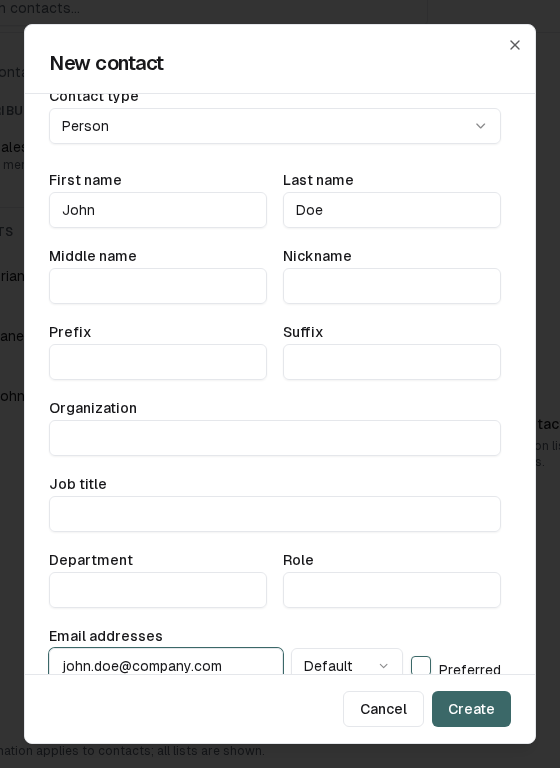
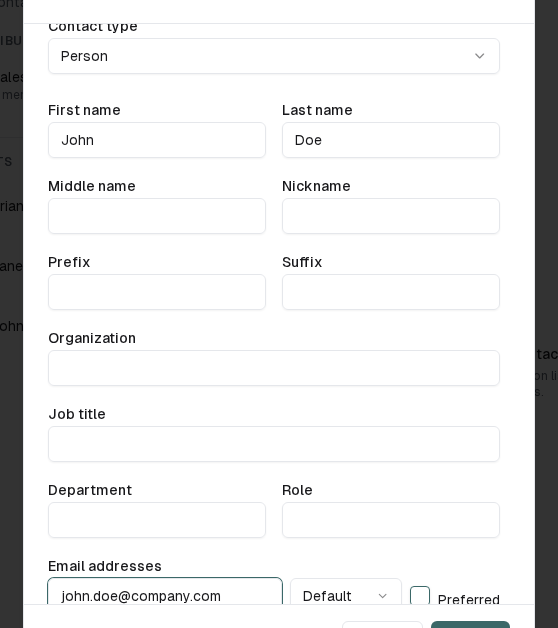
feat(capture): scope every shot to its instructional scene — 18/18, gate clean
Each capture now frames its subject instead of the full app viewport:
- mail-compose: floating compose panel; mail-read: reading pane
- mail-folder-management: folder list nav; global-search: search bar ∪
  filter popover
- settings pages scoped to their forms (vacation, signatures, filters,
  preferences, password)
- contacts-add/edit-delete: identity / phone sections
- calendar-edit-delete: event popover; recurring: recurrence controls
  with the frequency options open
- capture() accepts a list of locators, unions their bounding boxes

phash gate: 0 near-duplicate pairs (scoped dialogs were clashing at
dist=8; tight scenes are distinct — 40/18/25KB vs uniform 60-160KB
full-viewport shots)

diff --git a/capture/run_screenshot_captures.py b/capture/run_screenshot_captures.py
@@ -339,16 +339,25 @@ class ScreenshotRecorder:
                       locale: str = "en") -> Path | None:
         """Screenshot at the result moment, annotated with the given label.
 
-        With ``scope`` (a Locator), captures that widget (dialog, panel) with
-        a margin instead of the full viewport — the gist fills the frame.
+        With ``scope`` (a Locator, or a list of Locators whose bounding
+        boxes are unioned), captures that widget (dialog, panel, section)
+        with a margin instead of the full viewport — the gist fills the
+        frame.
         """
         raw_path = self.screenshot_dir / f"{self.name}_raw.png"
         annotated_path = self.screenshot_dir / f"{self.name}.png"
         try:
+            box = None
             if scope is not None:
-                box = await scope.bounding_box()
-            else:
-                box = None
+                scopes = scope if isinstance(scope, list) else [scope]
+                boxes = [b for b in await asyncio.gather(*(s.bounding_box() for s in scopes)) if b]
+                if boxes:
+                    box = {
+                        "x": min(b["x"] for b in boxes),
+                        "y": min(b["y"] for b in boxes),
+                        "width": max(b["x"] + b["width"] for b in boxes) - min(b["x"] for b in boxes),
+                        "height": max(b["y"] + b["height"] for b in boxes) - min(b["y"] for b in boxes),
+                    }
             if box:
                 vp = page.viewport_size or {"width": 1280, "height": 800}
                 x = max(0, box["x"] - margin)
@@ -476,11 +485,17 @@ async def record_calendar_recurring(context: BrowserContext) -> Path | None:
     freq = dlg.locator("[role='combobox']:has-text('Week')").first
     await require(freq, "recurrence frequency selector")
     await freq.click()
+    options = page.locator("[role='listbox']").first
+    await require(options, "recurrence frequency options listbox")
     await page.locator("[role='option']").first.wait_for(state="visible", timeout=8000)
     await page.wait_for_timeout(400)
 
+    # Scene = the recurrence controls with the frequency options open — a
+    # plain dialog shot phash-clashes with calendar-create-event (dist=8).
+    repeat_section = switch.locator("xpath=ancestor::div[2]")
     shot = await rec.capture(
-        page, "Configuring a weekly recurring event", scope=dlg
+        page, "Configuring a weekly recurring event: frequency options",
+        scope=[repeat_section, freq, options],
     )
 
     await page.locator("[role='option']", has_text="Week(s)").first.click()
@@ -520,7 +535,10 @@ async def record_mail_compose(context: BrowserContext) -> Path | None:
     await page.wait_for_timeout(500)
 
     # Filled compose panel IS the instructional gist — actual sending not needed.
-    return await rec.capture(page, "Compose panel: To, Subject, and body filled")
+    # Scene = the floating compose panel (3rd div ancestor of Send:
+    # button-group -> footer bar -> panel; probe 2026-09-14).
+    panel = page.get_by_role("button", name="Send").locator("xpath=ancestor::div[3]")
+    return await rec.capture(page, "Compose panel: To, Subject, and body filled", scope=panel)
 
 
 async def record_contacts_add(context: BrowserContext) -> Path | None:
@@ -542,8 +560,11 @@ async def record_contacts_add(context: BrowserContext) -> Path | None:
     await em.fill("john.doe@company.com")
     await page.wait_for_timeout(500)
 
+    # Scene = the identity section (name + email rows) — a full dialog shot
+    # phash-clashes with the calendar event dialogs (dist=8).
+    identity = page.locator('input[name="firstName"]').locator("xpath=ancestor::div[3]")
     return await rec.capture(
-        page, "New contact dialog with First Name, Last Name, Email filled", scope=dlg
+        page, "New contact: First Name, Last Name, Email filled", scope=identity
     )
 
 
@@ -559,7 +580,7 @@ async def record_vacation(context: BrowserContext) -> Path | None:
     await require(section, "Vacation settings section")
     await page.wait_for_timeout(400)
 
-    return await rec.capture(page, "Vacation auto-reply settings page")
+    return await rec.capture(page, "Vacation auto-reply settings", scope=section)
 
 
 async def record_mail_signatures(context: BrowserContext) -> Path | None:
@@ -570,9 +591,13 @@ async def record_mail_signatures(context: BrowserContext) -> Path | None:
     await navigate_to_settings(page, "Email")
 
     await require(page.get_by_text("Signature"), "Signature settings section")
+    sig_section = page.locator("form, section").filter(has_text="Signature").first
+    await require(sig_section, "Signature settings form")
     await page.wait_for_timeout(400)
 
-    return await rec.capture(page, "Email settings page showing the Signature configuration section")
+    return await rec.capture(
+        page, "Email settings: Signature configuration", scope=sig_section
+    )
 
 
 async def record_mail_filters(context: BrowserContext) -> Path | None:
@@ -585,7 +610,9 @@ async def record_mail_filters(context: BrowserContext) -> Path | None:
     await wait_outcome(page, "Add filter", "Filters list with 'Add filter' button")
     await page.wait_for_timeout(400)
 
-    return await rec.capture(page, "Mail Filters settings page")
+    filters_form = page.locator("form").filter(has_text="Add filter").first
+    await require(filters_form, "Filters form")
+    return await rec.capture(page, "Mail Filters settings", scope=filters_form)
 
 
 async def record_calendar_subscribe(context: BrowserContext) -> Path | None:
@@ -681,9 +708,11 @@ async def record_preferences(context: BrowserContext) -> Path | None:
     await navigate_to_settings(page, "General")
 
     await require(page.get_by_text("Timezone"), "Timezone setting")
+    gen_form = page.locator("form").filter(has_text="Timezone").first
+    await require(gen_form, "General settings form")
     await page.wait_for_timeout(400)
 
-    return await rec.capture(page, "General Preferences settings page")
+    return await rec.capture(page, "General Preferences settings", scope=gen_form)
 
 
 async def record_calendar_views(context: BrowserContext) -> Path | None:
@@ -737,10 +766,13 @@ async def record_contacts_edit_delete(context: BrowserContext) -> Path | None:
     await phone_in.fill("+1 555-1234")
     await page.wait_for_timeout(400)
 
-    # Full page, not scope=dlg: a scoped contact dialog is visually near-
-    # identical to the calendar event dialogs (phash dist=8 → duplicate gate
-    # flags it). Full page keeps the address-book context and stays distinct.
-    return await rec.capture(page, "Contact dialog: editing phone number in new contact")
+    # Scene = the phone section of the contact dialog (the caption's subject;
+    # also visually distinct from the calendar event dialogs).
+    phone_section = phone_in.locator("xpath=ancestor::div[3]")
+    return await rec.capture(
+        page, "Contact dialog: editing phone number in new contact",
+        scope=[phone_section, dlg.locator('button:has-text("Add phone")')],
+    )
 
 
 async def record_calendar_edit_delete(context: BrowserContext) -> Path | None:
@@ -759,10 +791,12 @@ async def record_calendar_edit_delete(context: BrowserContext) -> Path | None:
     await page.wait_for_timeout(800)
 
     # Wait for details/popover with Edit/Delete
-    await require(page.locator('button:has-text("Edit"), [role="button"][aria-label*="Edit"]').first, "Edit button")
+    edit_btn = page.locator('button:has-text("Edit"), [role="button"][aria-label*="Edit"]').first
+    await require(edit_btn, "Edit button")
     await page.wait_for_timeout(400)
 
-    return await rec.capture(page, "Calendar event detailed view with Edit and Delete options")
+    popover = page.locator("[role='dialog']").first
+    return await rec.capture(page, "Event details: Edit and Delete options", scope=popover)
 
 
 async def record_global_search(context: BrowserContext) -> Path | None:
@@ -779,10 +813,17 @@ async def record_global_search(context: BrowserContext) -> Path | None:
     # Search executes on Enter; a filter popover (role=dialog) opens (probe
     # 2026-09-14). Wait for it as the visible outcome.
     await page.keyboard.press("Enter")
-    await require(page.locator("[role='dialog']").first, "Search filter popover")
+    popover = page.locator("[role='dialog']").first
+    await require(popover, "Search filter popover")
     await page.wait_for_timeout(400)
 
-    return await rec.capture(page, "Global search: search term entered and results shown")
+    # Scene = search bar (3rd div ancestor of the input: wrapper -> flex-1
+    # -> header search cluster) united with the filter popover.
+    search_cluster = search_in.locator("xpath=ancestor::div[3]")
+    return await rec.capture(
+        page, "Global search: term entered, filter popover open",
+        scope=[search_cluster, popover],
+    )
 
 
 async def record_mail_read(context: BrowserContext) -> Path | None:
@@ -815,7 +856,7 @@ async def record_mail_read(context: BrowserContext) -> Path | None:
     await require(pane.get_by_text(subject), "Subject in reading pane")
     await page.wait_for_timeout(400)
 
-    return await rec.capture(page, "Message opened in reading pane")
+    return await rec.capture(page, "Message opened in reading pane", scope=pane)
 
 
 async def record_mail_folder_management(context: BrowserContext) -> Path | None:
@@ -835,7 +876,9 @@ async def record_mail_folder_management(context: BrowserContext) -> Path | None:
     await require(page.get_by_text("Sent"), "Sent folder content context")
     await page.wait_for_timeout(400)
 
-    return await rec.capture(page, "Mail folder sidebar with Sent folder open")
+    folder_list = sent.locator("xpath=ancestor::ul[1]")
+    await require(folder_list, "folder list")
+    return await rec.capture(page, "Mail folder sidebar with Sent folder open", scope=folder_list)
 
 
 # NOTE: record_mail_reply_forward_delete was removed — the SOGo 6 demo reading
@@ -864,7 +907,9 @@ async def record_password_change(context: BrowserContext) -> Path | None:
         await confirm.fill("new-password")
     await page.wait_for_timeout(400)
 
-    return await rec.capture(page, "Security page: Password change form filled")
+    pw_form = current.locator("xpath=ancestor::form[1]")
+    await require(pw_form, "Password form")
+    return await rec.capture(page, "Security page: Password change form filled", scope=pw_form)
 
 
 # NOTE: record_calendar_ical and record_contacts_import_export were removed —
